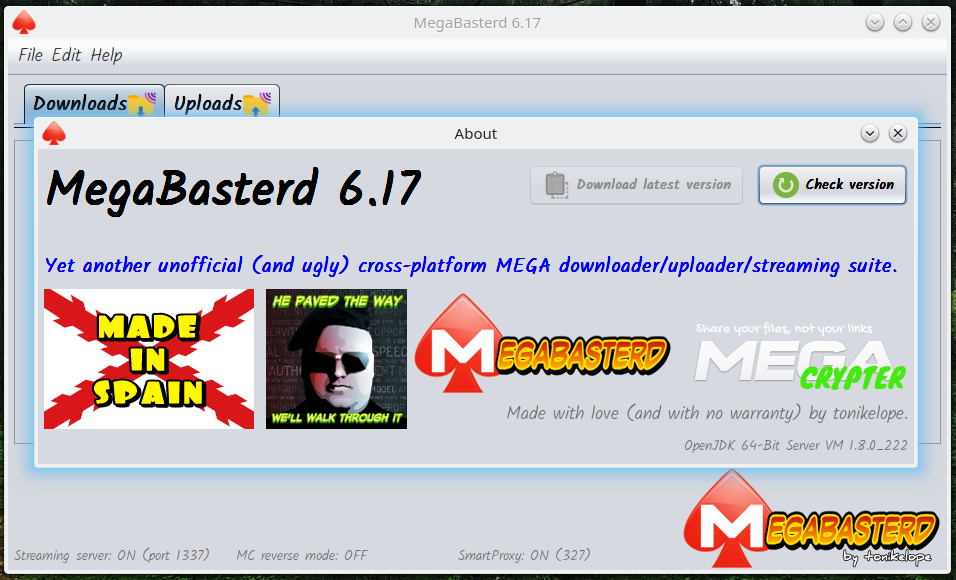
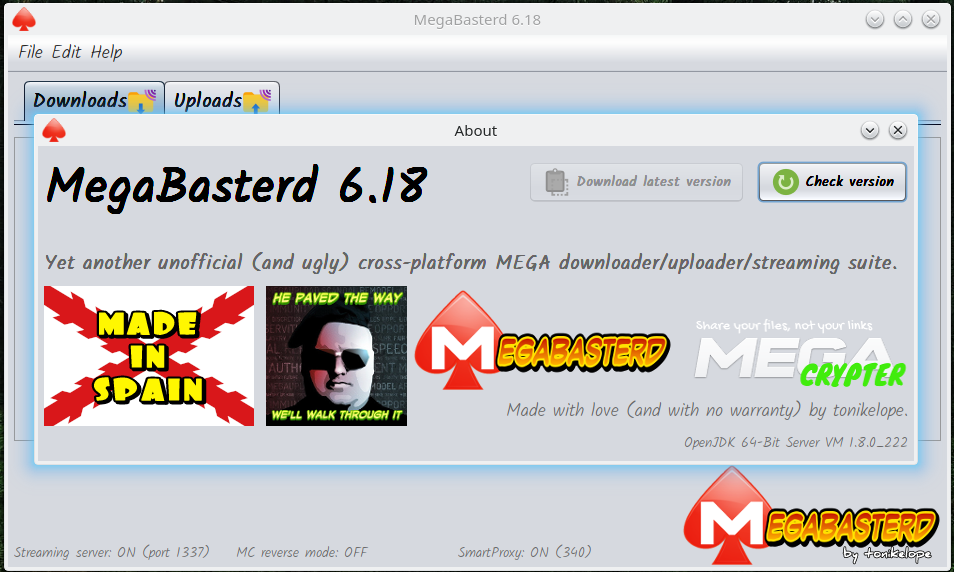
6.18
-Added option to generate log of each upload (activated by default). (Fix)

diff --git a/src/main/java/com/tonikelope/megabasterd/Upload.java b/src/main/java/com/tonikelope/megabasterd/Upload.java
@@ -904,21 +904,23 @@ public final class Upload implements Transference, Runnable, SecureSingleThreadN
 
                             getView().printStatusOK(LabelTranslatorSingleton.getInstance().translate("File successfully uploaded! (") + _ma.getFull_email() + ")");
 
-                            File upload_log = new File(System.getProperty("user.home") + "/megabasterd_upload_" + _parent_node + ".log");
+                            synchronized (this.getMain_panel().getUpload_manager().getLog_file_lock()) {
 
-                            if (upload_log.exists()) {
+                                File upload_log = new File(System.getProperty("user.home") + "/megabasterd_upload_" + _root_node + ".log");
 
-                                FileWriter fr;
-                                try {
-                                    fr = new FileWriter(upload_log, true);
-                                    fr.write(this._file_name + "   " + this._file_link + "\n");
-                                    fr.close();
-                                } catch (IOException ex) {
-                                    Logger.getLogger(Upload.class.getName()).log(Level.SEVERE, null, ex);
+                                if (upload_log.exists()) {
+
+                                    FileWriter fr;
+                                    try {
+                                        fr = new FileWriter(upload_log, true);
+                                        fr.write(_file_name + "   [" + MiscTools.formatBytes(_file_size) + "]   " + _file_link + "\n");
+                                        fr.close();
+                                    } catch (IOException ex) {
+                                        Logger.getLogger(Upload.class.getName()).log(Level.SEVERE, null, ex);
+                                    }
+
                                 }
-
                             }
-
                         }
 
                     } else {

diff --git a/src/main/java/com/tonikelope/megabasterd/UploadManager.java b/src/main/java/com/tonikelope/megabasterd/UploadManager.java
@@ -16,10 +16,18 @@ public final class UploadManager extends TransferenceManager {
 
     private final ConcurrentLinkedQueue<Upload> _finishing_uploads_queue;
 
+    private final Object _log_file_lock;
+
     public UploadManager(MainPanel main_panel) {
 
         super(main_panel, main_panel.getMax_ul(), main_panel.getView().getStatus_up_label(), main_panel.getView().getjPanel_scroll_up(), main_panel.getView().getClose_all_finished_up_button(), main_panel.getView().getPause_all_up_button(), main_panel.getView().getClean_all_up_menu());
         _finishing_uploads_queue = new ConcurrentLinkedQueue<>();
+
+        _log_file_lock = new Object();
+    }
+
+    public Object getLog_file_lock() {
+        return _log_file_lock;
     }
 
     public ConcurrentLinkedQueue<Upload> getFinishing_uploads_queue() {

diff --git a/src/main/java/com/tonikelope/megabasterd/MainPanel.java b/src/main/java/com/tonikelope/megabasterd/MainPanel.java
@@ -50,7 +50,7 @@ import javax.swing.UIManager;
  */
 public final class MainPanel {
 
-    public static final String VERSION = "6.17";
+    public static final String VERSION = "6.18";
     public static final int THROTTLE_SLICE_SIZE = 16 * 1024;
     public static final int DEFAULT_BYTE_BUFFER_SIZE = 16 * 1024;
     public static final int STREAMER_PORT = 1337;
